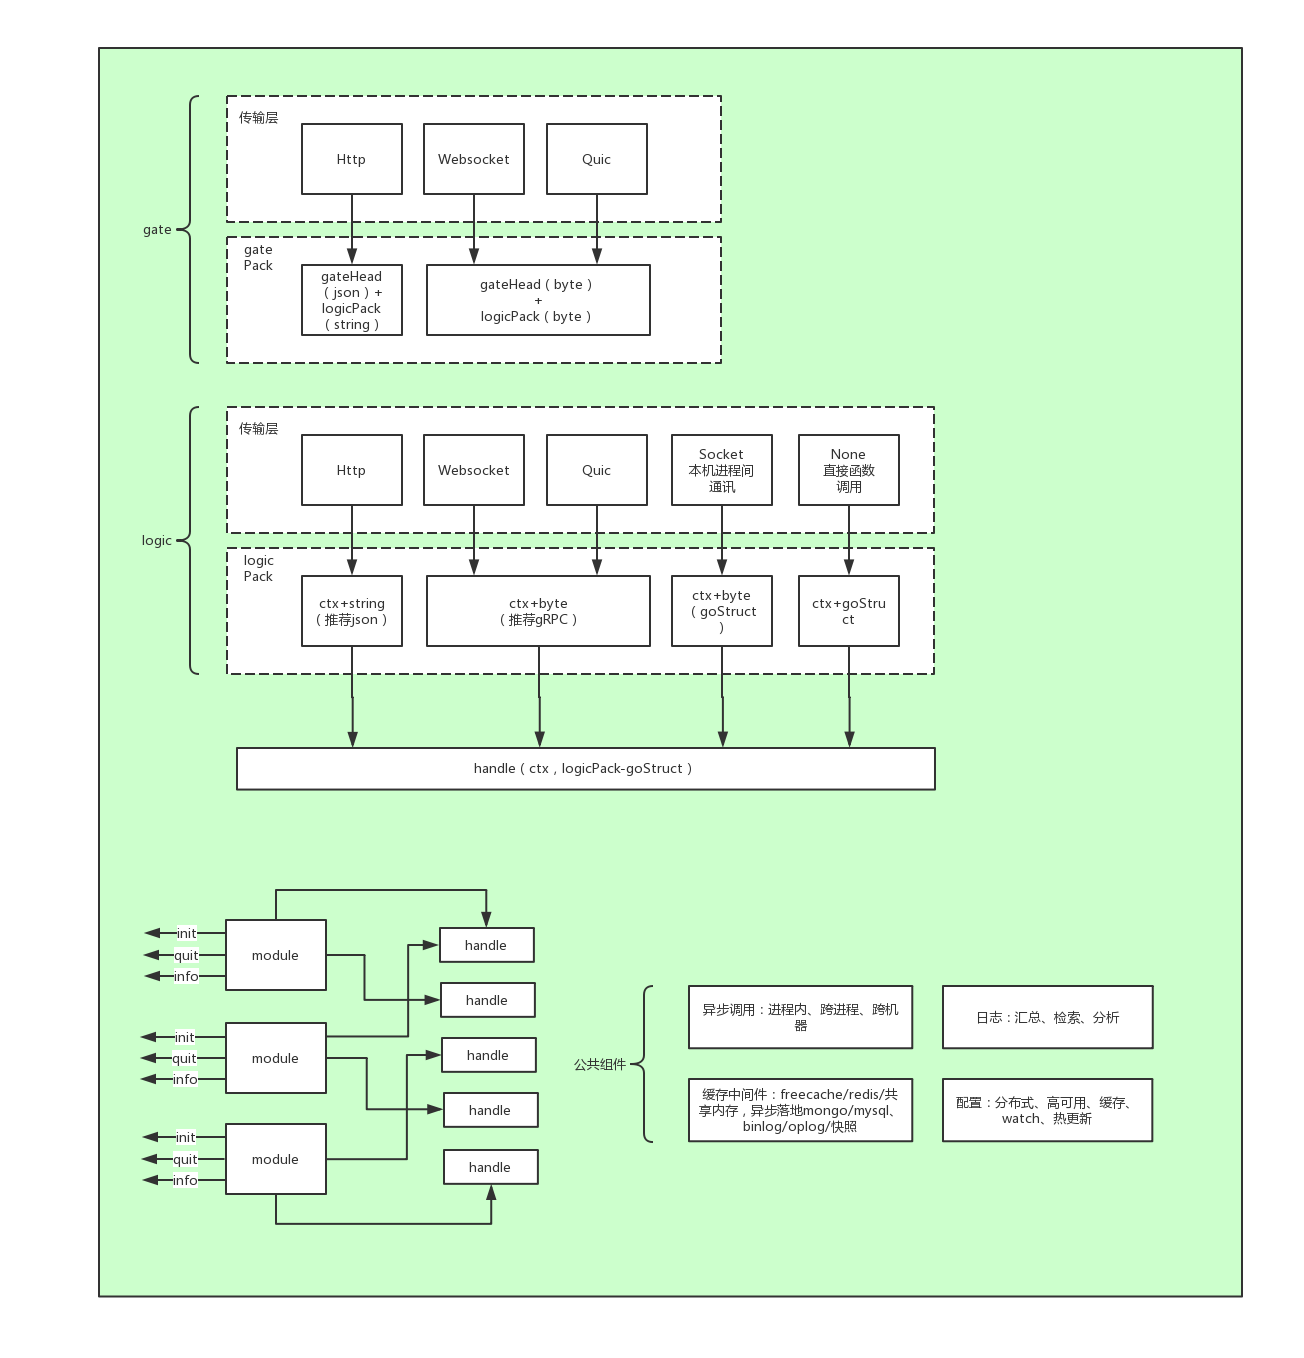
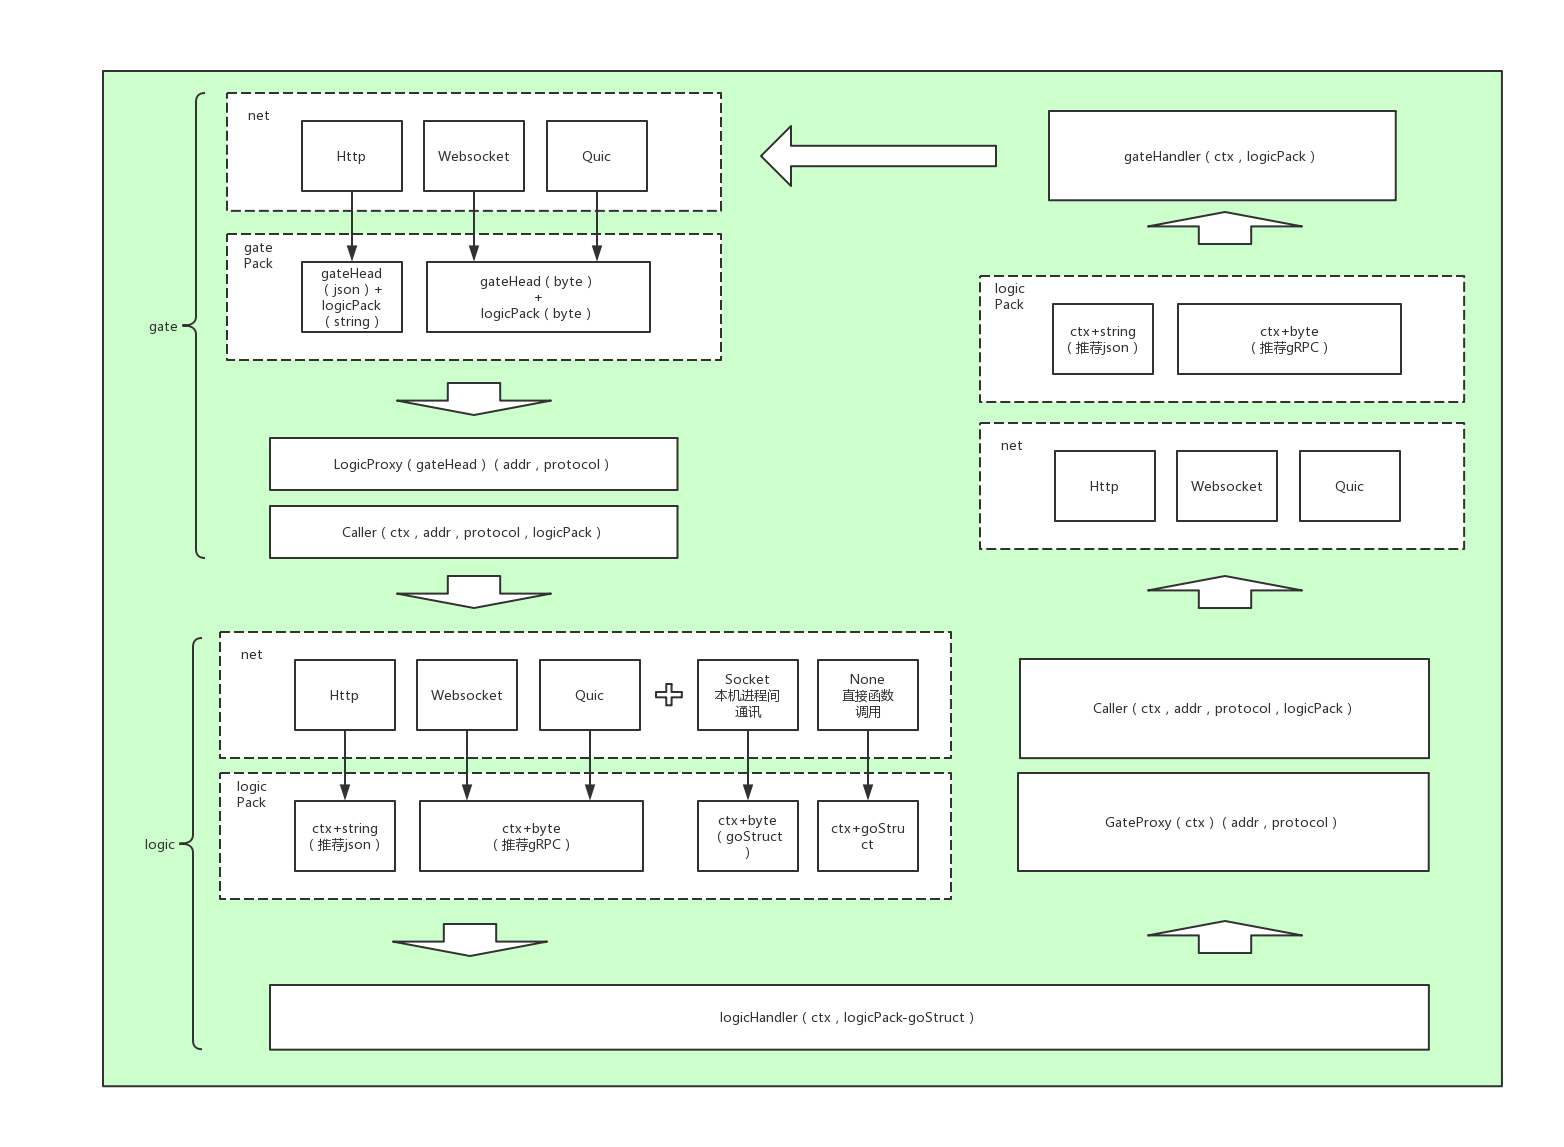
perf:思考更深入，更新文档

diff --git a/pkg/so/router.go b/pkg/so/router.go
@@ -1,6 +1,6 @@
 package so
 
-// Router 路由
+// Router 路由器
 type Router interface {
 	GetPrivateData() interface{} // 私有数据 扩展用
 }

diff --git a/README.md b/README.md
@@ -18,14 +18,24 @@ go语言服务端框架/工具集，适用于网关、游戏、网页等。
 ![](/docs/jpg/架构.jpg)
 
 # 说明
-- gate 网关服务
-    1. 解析gateHead（不解析logicPack）获取目标服务
-    2. 生成公共字段和gateHead一起添加进ctx中
-    3. 从配置或服务治理中获取服务的地址
-    4. 将ctx和logicPack传递给logic服务
-- logic 逻辑服务
+- gate 网关
+    1. gate-client gate对用户
+        1. client传递gatePack（gateHead+logicPack）
+        2. 解析gateHead（不解析logicPack）获取目标logic
+        3. 从logicProxy中获取logic的地址
+        4. 生成公共字段和gateHead一起添加进ctx中
+        5. 将ctx和logicPack传递给logic服务
+    2. gate-logic gate对逻辑
+        1. 接收logic请求的ctx和logicPack
+        2. 从ctx中获取目标client
+        3. 将logicPack传递给client
+- logic 逻辑
+    1. gate-client传递ctx和logicPack
     1. 解析logicPack
-    2. 将ctx和logicStruct传递给handle
+    2. 将ctx和req传递给handler
+    3. 获取handler的resp
+    4. 从gateProxy中获取gate-logic的地址
+    5. 将ctx和resp传递给gate-logic
 - module&handle 模块和处理器
     1. 业务逻辑的核心组成
     2. 模块是一个功能的抽象
